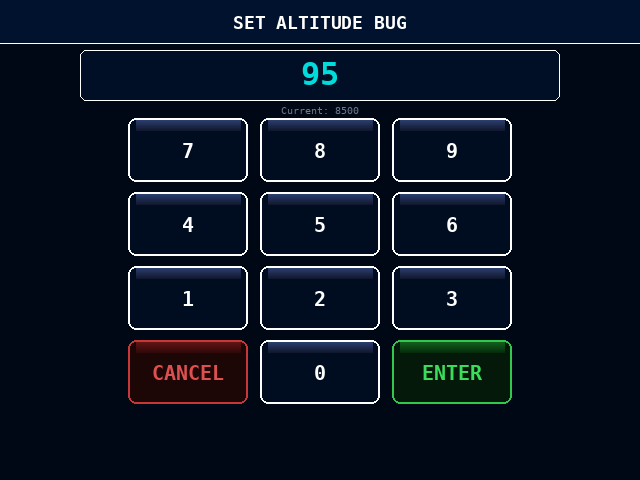
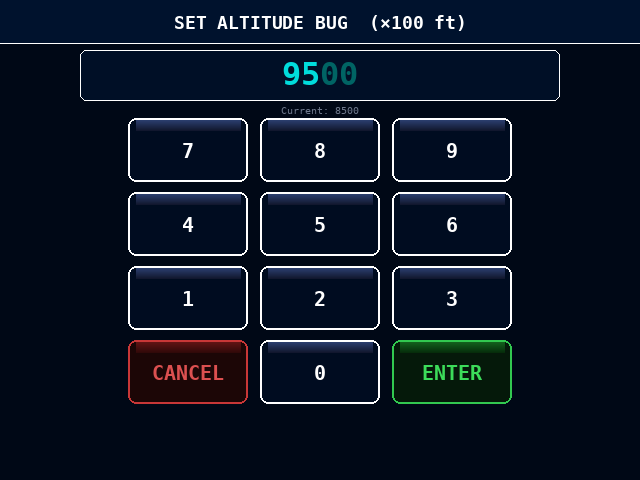
Add PFD/MFD placeholder to System screen; alt bug in hundreds of feet
System screen:
- New DISPLAY MODE row between info block and action buttons
- PFD active (CYAN), MFD disabled with 'coming soon' label
- disp["display_mode"] = "pfd" state added

Altitude bug numpad:
- Input is now hundreds of feet (max 3 digits, e.g. type 85 → 8500 ft)
- Display box shows entered digits in bright CYAN + '00' suffix in dim cyan
- Title updated to 'SET ALTITUDE BUG (×100 ft)'
- Current value hint shows full feet (e.g. 'Current: 8500')
- ENTER stores int(buf) × 100 directly (no rounding needed)

https://claude.ai/code/session_017SH8gTHM3ctk1qfSPqffyG

Changed region(s): [[0.25, 0.0312, 0.75, 0.0625], [0.4375, 0.125, 0.5625, 0.1875]]

diff --git a/pi_display/pfd.py b/pi_display/pfd.py
@@ -75,6 +75,7 @@ disp["fp"] = {                      # flight-profile values
     "vno":    VNO,  "vne": VNE,  "va":  VA,
     "vy":     VY,   "vx":  VX,
 }
+disp["display_mode"]  = "pfd"       # "pfd" | "mfd" (MFD not yet implemented)
 disp["ds"] = {                      # display settings
     "spd_unit":  "kt",   "alt_unit":   "ft",
     "baro_unit": "inhg", "brightness": 8,  "night_mode": False,
@@ -1183,8 +1184,7 @@ def handle_event(event, demo_mode):
                 lbl, sty = hit
                 target = disp["numpad_target"]
                 if sty == 'n':                # digit
-                    max_digits = 5 if target == "alt_bug" else 3
-                    if len(disp["numpad_buf"]) < max_digits:
+                    if len(disp["numpad_buf"]) < 3:   # all targets max 3 digits
                         disp["numpad_buf"] += lbl
                 elif sty == 'x':              # CANCEL
                     disp["mode"] = disp["numpad_prev"]
@@ -1194,7 +1194,7 @@ def handle_event(event, demo_mode):
                     if buf:
                         val = int(buf)
                         if target == "alt_bug":
-                            disp["alt_bug"] = float(round(val / 100) * 100)
+                            disp["alt_bug"] = float(val * 100)   # input is hundreds of ft
                         elif target == "hdg_bug":
                             disp["hdg_bug"] = float(val % 360)
                         elif target == "spd_bug":
@@ -1323,18 +1323,31 @@ def _numpad_key(surf, col, row, label, style, r=8):
     _text(surf, label, 20, tc, bold=True, cx=bx+_NP_PW//2, cy=by+_NP_PH//2)
 
 
-def draw_numpad(surf, title, current_val, entered=""):
-    """Full-screen numeric entry pad."""
+def draw_numpad(surf, title, current_val, entered="", suffix=""):
+    """Full-screen numeric entry pad.
+    suffix: appended to the entered value in the display box (e.g. '00' for alt_bug).
+    """
     surf.fill((0, 8, 22))
     pygame.draw.rect(surf, (0, 18, 45), (0, 0, DISPLAY_W, 44))
     pygame.draw.line(surf, WHITE, (0, 43), (DISPLAY_W-1, 43), 1)
     _text(surf, title, 18, WHITE, bold=True, cx=DISPLAY_W//2, cy=22)
-    # Value display
-    disp_str = entered if entered else str(current_val)
+    # Value display — show entered digits then dim suffix (if any)
+    base_str = entered if entered else str(current_val)
     pygame.draw.rect(surf, (0,15,38), (80, 50, DISPLAY_W-161, 50), border_radius=6)
     pygame.draw.rect(surf, WHITE,     (80, 50, DISPLAY_W-161, 50), width=1, border_radius=6)
-    _text(surf, disp_str, 32, CYAN, bold=True, cx=DISPLAY_W//2, cy=75)
-    _text(surf, f"Current: {current_val}", 10, (110,120,140), cx=DISPLAY_W//2, cy=108)
+    if suffix:
+        # Draw base centred, then the suffix in dim cyan immediately after
+        f32 = _get_font(32, bold=True)
+        bw  = f32.size(base_str)[0]
+        sw  = f32.size(suffix)[0]
+        total = bw + sw
+        bx_str = DISPLAY_W//2 - total//2
+        surf.blit(f32.render(base_str, True, CYAN), (bx_str, 59))
+        surf.blit(f32.render(suffix,   True, (0,100,100)), (bx_str + bw, 59))
+    else:
+        _text(surf, base_str, 32, CYAN, bold=True, cx=DISPLAY_W//2, cy=75)
+    cur_display = f"{current_val}{suffix}" if suffix else str(current_val)
+    _text(surf, f"Current: {cur_display}", 10, (110,120,140), cx=DISPLAY_W//2, cy=108)
     for ri, row in enumerate(_NP_KEYS):
         for ci, (lbl, sty) in enumerate(row):
             _numpad_key(surf, ci, ri, lbl, sty)
@@ -1544,9 +1557,9 @@ def _screen_header(surf, title):
     _text(surf, title, 20, WHITE, bold=True, cx=DISPLAY_W//2, cy=22)
 
 
-def _setting_row(surf, row_i, label, sub=""):
+def _setting_row(surf, row_i, label, sub="", _y_override=None):
     """Draw settings row background + label. Returns (bx, by, bw, bh)."""
-    bx = _SS_MX; by = _ss_row_y(row_i)
+    bx = _SS_MX; by = _y_override if _y_override is not None else _ss_row_y(row_i)
     bw = DISPLAY_W - 2*_SS_MX; bh = _SS_RH
     pygame.draw.rect(surf, (0, 12, 32), (bx, by, bw, bh), border_radius=6)
     gh = bh // 6
@@ -1848,6 +1861,13 @@ _SYS_INFO_Y  = 56
 _SYS_INFO_LH = 28
 
 
+_SYS_N_LINES = 5
+_SYS_IH      = _SYS_N_LINES * _SYS_INFO_LH + 16
+_SYS_MODE_Y  = _SYS_INFO_Y + _SYS_IH + 8    # DISPLAY MODE row top
+_SYS_BTN_Y   = _SYS_MODE_Y + _SS_RH + 10    # action buttons top
+_SYS_BTN_H   = 54
+
+
 def draw_system_setup(surf):
     _screen_header(surf, "SYSTEM")
     bx = _SS_MX; bw = DISPLAY_W - 2*_SS_MX
@@ -1858,29 +1878,38 @@ def draw_system_setup(surf):
         ("Hardware",          "Pi Zero 2W + Pico W"),
         ("SRTM terrain data", "loaded" if os.path.isdir(SRTM_DIR) else "not found"),
     ]
-    ih = len(lines)*_SYS_INFO_LH + 16
-    pygame.draw.rect(surf, (0,12,32), (bx, _SYS_INFO_Y, bw, ih), border_radius=6)
-    pygame.draw.rect(surf, (55,75,105), (bx, _SYS_INFO_Y, bw, ih), width=1, border_radius=6)
+    pygame.draw.rect(surf, (0,12,32), (bx, _SYS_INFO_Y, bw, _SYS_IH), border_radius=6)
+    pygame.draw.rect(surf, (55,75,105), (bx, _SYS_INFO_Y, bw, _SYS_IH), width=1, border_radius=6)
     for i, (k, v) in enumerate(lines):
         ty = _SYS_INFO_Y + 10 + i*_SYS_INFO_LH
         _text(surf, k, 12, (120,140,165), x=bx+14, y=ty)
         _text(surf, v, 13, WHITE, bold=True, x=bx+310, y=ty)
-    btn_y = _SYS_INFO_Y + ih + 16
-    btn_h = 54
+
+    # DISPLAY MODE row
+    _setting_row(surf, 0, "DISPLAY MODE", "Primary Flight Display or Multi-Function Display",
+                 _y_override=_SYS_MODE_Y)
+    cur = disp.get("display_mode", "pfd")
+    btn_h_m = _DSP_BTN_H; btn_w_m = 110; gap_m = _DSP_BTN_G
+    rx = bx + bw - 2*(btn_w_m+gap_m) + gap_m - 14
+    ry = _SYS_MODE_Y + (_SS_RH - btn_h_m) // 2
+    _seg_btn(surf, rx,              ry, btn_w_m, btn_h_m, "PFD", cur == "pfd")
+    # MFD — disabled placeholder
+    pygame.draw.rect(surf, (0,8,18), (rx+btn_w_m+gap_m, ry, btn_w_m, btn_h_m), border_radius=5)
+    pygame.draw.rect(surf, (35,45,60), (rx+btn_w_m+gap_m, ry, btn_w_m, btn_h_m), width=2, border_radius=5)
+    _text(surf, "MFD", 14, (50,60,75), bold=False, cx=rx+btn_w_m+gap_m+btn_w_m//2, cy=ry+btn_h_m//2-7)
+    _text(surf, "coming soon", 9, (45,55,70), cx=rx+btn_w_m+gap_m+btn_w_m//2, cy=ry+btn_h_m//2+8)
+
     half_w = (bw - 10) // 2
-    _action_btn(surf, bx,            btn_y, half_w, btn_h, "DIAGNOSTICS", "normal")
-    _action_btn(surf, bx+half_w+10,  btn_y, half_w, btn_h, "RESET DEFAULTS", "danger")
+    _action_btn(surf, bx,            _SYS_BTN_Y, half_w, _SYS_BTN_H, "DIAGNOSTICS", "normal")
+    _action_btn(surf, bx+half_w+10,  _SYS_BTN_Y, half_w, _SYS_BTN_H, "RESET DEFAULTS", "danger")
 
 
 def system_setup_hit(x, y):
     if 8 <= x <= 80 and 6 <= y <= 37:
         return "back"
     bx = _SS_MX; bw = DISPLAY_W - 2*_SS_MX
-    n = 5
-    ih = n*_SYS_INFO_LH + 16
-    btn_y = _SYS_INFO_Y + ih + 16; btn_h = 54
     half_w = (bw - 10) // 2
-    if btn_y <= y <= btn_y+btn_h:
+    if _SYS_BTN_Y <= y <= _SYS_BTN_Y+_SYS_BTN_H:
         if bx <= x <= bx+half_w:
             return "diagnostics"
         if bx+half_w+10 <= x <= bx+half_w+10+half_w:
@@ -1947,10 +1976,10 @@ def render(surf, demo_mode, connected):
     if mode == "numpad":
         target  = disp.get("numpad_target", "")
         buf     = disp.get("numpad_buf", "")
-        titles  = {"alt_bug": "SET ALTITUDE BUG",
+        titles  = {"alt_bug": "SET ALTITUDE BUG  (\u00d7100 ft)",
                    "hdg_bug": "SET HEADING BUG",
                    "spd_bug": "SET GS BUG"}
-        curvals = {"alt_bug": int(disp.get("alt_bug", 0)),
+        curvals = {"alt_bug": int(disp.get("alt_bug", 0)) // 100,   # show hundreds
                    "hdg_bug": int(disp.get("hdg_bug", 0)),
                    "spd_bug": int(disp.get("spd_bug", 0))}
         # Add V-speed fields from flight profile
@@ -1959,7 +1988,8 @@ def render(surf, demo_mode, connected):
                 titles[fkey]  = f"SET {flabel}"
                 curvals[fkey] = int(disp["fp"].get(fkey, 0))
         draw_numpad(surf, titles.get(target, "ENTER VALUE"),
-                    curvals.get(target, 0), buf)
+                    curvals.get(target, 0), buf,
+                    suffix="00" if target == "alt_bug" else "")
         return
 
     if mode == "flight_profile":

diff --git a/tools/preview_640x480.py b/tools/preview_640x480.py
@@ -861,8 +861,10 @@ def _numpad_btn(draw, col, row, label, style, r=8):
     draw.text((bx + (_NP_PW-lw)//2, by + (_NP_PH-22)//2), label, fill=tc, font=lf)
 
 
-def draw_numpad_screen(title, current_val, filename, entered=""):
-    """Render a full-screen numeric-entry pad (alt bug, hdg bug, GS bug, etc.)."""
+def draw_numpad_screen(title, current_val, filename, entered="", suffix=""):
+    """Render a full-screen numeric-entry pad (alt bug, hdg bug, GS bug, etc.).
+    suffix: appended in dim cyan after the entered digits (e.g. '00' for alt bug).
+    """
     img  = Image.new('RGB', (W, H), (0, 8, 22))
     draw = ImageDraw.Draw(img)
 
@@ -874,14 +876,22 @@ def draw_numpad_screen(title, current_val, filename, entered=""):
               title, fill=WHITE, font=tf)
 
     # Value display box
-    disp_str = entered if entered else str(current_val)
+    base_str = entered if entered else str(current_val)
     draw.rounded_rectangle([(80, 50), (W-81, 100)], radius=6, fill=(0, 15, 38))
     draw.rounded_rectangle([(80, 50), (W-81, 100)], radius=6, outline=WHITE, width=1)
     vf = fnt(32, bold=True)
-    vw = int(draw.textlength(disp_str, font=vf))
-    draw.text(((W-vw)//2, 55), disp_str, fill=CYAN, font=vf)
+    if suffix:
+        bw = int(draw.textlength(base_str, font=vf))
+        sw = int(draw.textlength(suffix,   font=vf))
+        bx_str = (W - bw - sw) // 2
+        draw.text((bx_str,      55), base_str, fill=CYAN,         font=vf)
+        draw.text((bx_str + bw, 55), suffix,   fill=(0, 100, 100), font=vf)
+    else:
+        vw = int(draw.textlength(base_str, font=vf))
+        draw.text(((W-vw)//2, 55), base_str, fill=CYAN, font=vf)
     hf = fnt(10)
-    hint = f"Current: {current_val}"
+    cur_display = f"{current_val}{suffix}" if suffix else str(current_val)
+    hint = f"Current: {cur_display}"
     hw = int(draw.textlength(hint, font=hf))
     draw.text(((W-hw)//2, 104), hint, fill=(110, 120, 140), font=hf)
 
@@ -1127,8 +1137,8 @@ def _screen_header_p(draw, title):
     draw.text(((W-int(draw.textlength(title,font=tf)))//2, 10), title, fill=WHITE, font=tf)
 
 
-def _setting_row_p(draw, row_i, label, sub=""):
-    bx = _SS_MX; by = _ss_row_y(row_i)
+def _setting_row_p(draw, row_i, label, sub="", _y_override=None):
+    bx = _SS_MX; by = _y_override if _y_override is not None else _ss_row_y(row_i)
     bw = W - 2*_SS_MX; bh = _SS_RH
     draw.rounded_rectangle([(bx,by),(bx+bw-1,by+bh-1)], radius=6, fill=(0,12,32))
     gh = bh // 6
@@ -1365,7 +1375,7 @@ _SYS_BUILD   = "2026-04-10"
 _SYS_INFO_LH = 28
 
 
-def draw_system_screen(filename):
+def draw_system_screen(filename, display_mode="pfd"):
     img  = Image.new('RGB',(W,H),(0,8,22))
     draw = ImageDraw.Draw(img)
     _screen_header_p(draw, "SYSTEM")
@@ -1387,7 +1397,31 @@ def draw_system_screen(filename):
         draw.text((bx+14, ty), k, fill=(120,140,165), font=fnt(12))
         draw.text((bx+310, ty), v, fill=WHITE, font=fnt(13,bold=True))
 
-    btn_y = INFO_Y + ih + 16; btn_h = 54
+    # DISPLAY MODE row
+    mode_y = INFO_Y + ih + 8
+    _setting_row_p(draw, 0, "DISPLAY MODE",
+                   "Primary Flight Display or Multi-Function Display",
+                   _y_override=mode_y)
+    btn_w_m = 110; gap_m = _DSP_BTN_G; btn_h_m = _DSP_BTN_H
+    rx = bx + bw - 2*(btn_w_m+gap_m) + gap_m - 14
+    ry = mode_y + (_SS_RH - btn_h_m) // 2
+    _seg_btn_p(draw, rx, ry, btn_w_m, btn_h_m, "PFD", display_mode == "pfd")
+    # MFD — disabled placeholder
+    draw.rounded_rectangle([(rx+btn_w_m+gap_m, ry),
+                             (rx+btn_w_m+gap_m+btn_w_m-1, ry+btn_h_m-1)],
+                            radius=5, fill=(0,8,18))
+    draw.rounded_rectangle([(rx+btn_w_m+gap_m, ry),
+                             (rx+btn_w_m+gap_m+btn_w_m-1, ry+btn_h_m-1)],
+                            radius=5, outline=(35,45,60), width=2)
+    mx = rx+btn_w_m+gap_m+btn_w_m//2
+    lf_m = fnt(14)
+    draw.text((mx - int(draw.textlength("MFD",font=lf_m))//2, ry+4),
+              "MFD", fill=(50,60,75), font=lf_m)
+    sf_m = fnt(9)
+    draw.text((mx - int(draw.textlength("coming soon",font=sf_m))//2, ry+btn_h_m-17),
+              "coming soon", fill=(45,55,70), font=sf_m)
+
+    btn_y = mode_y + _SS_RH + 10; btn_h = 54
     half_w = (bw - 10) // 2
     _action_btn_p(draw, bx,           btn_y, half_w, btn_h, "DIAGNOSTICS",   "normal")
     _action_btn_p(draw, bx+half_w+10, btn_y, half_w, btn_h, "RESET DEFAULTS","danger")
@@ -1442,9 +1476,9 @@ draw_keyboard_screen("ENTER TAIL NUMBER", "N12345",
                      os.path.join(OUT, "preview_keyboard.png"),
                      entered="N1234")
 
-draw_numpad_screen("SET ALTITUDE BUG", 8500,
+draw_numpad_screen("SET ALTITUDE BUG  (\u00d7100 ft)", 85,
                    os.path.join(OUT, "preview_numpad_alt.png"),
-                   entered="95")
+                   entered="95", suffix="00")
 
 draw_numpad_screen("SET HEADING BUG", 133,
                    os.path.join(OUT, "preview_numpad_hdg.png"),
